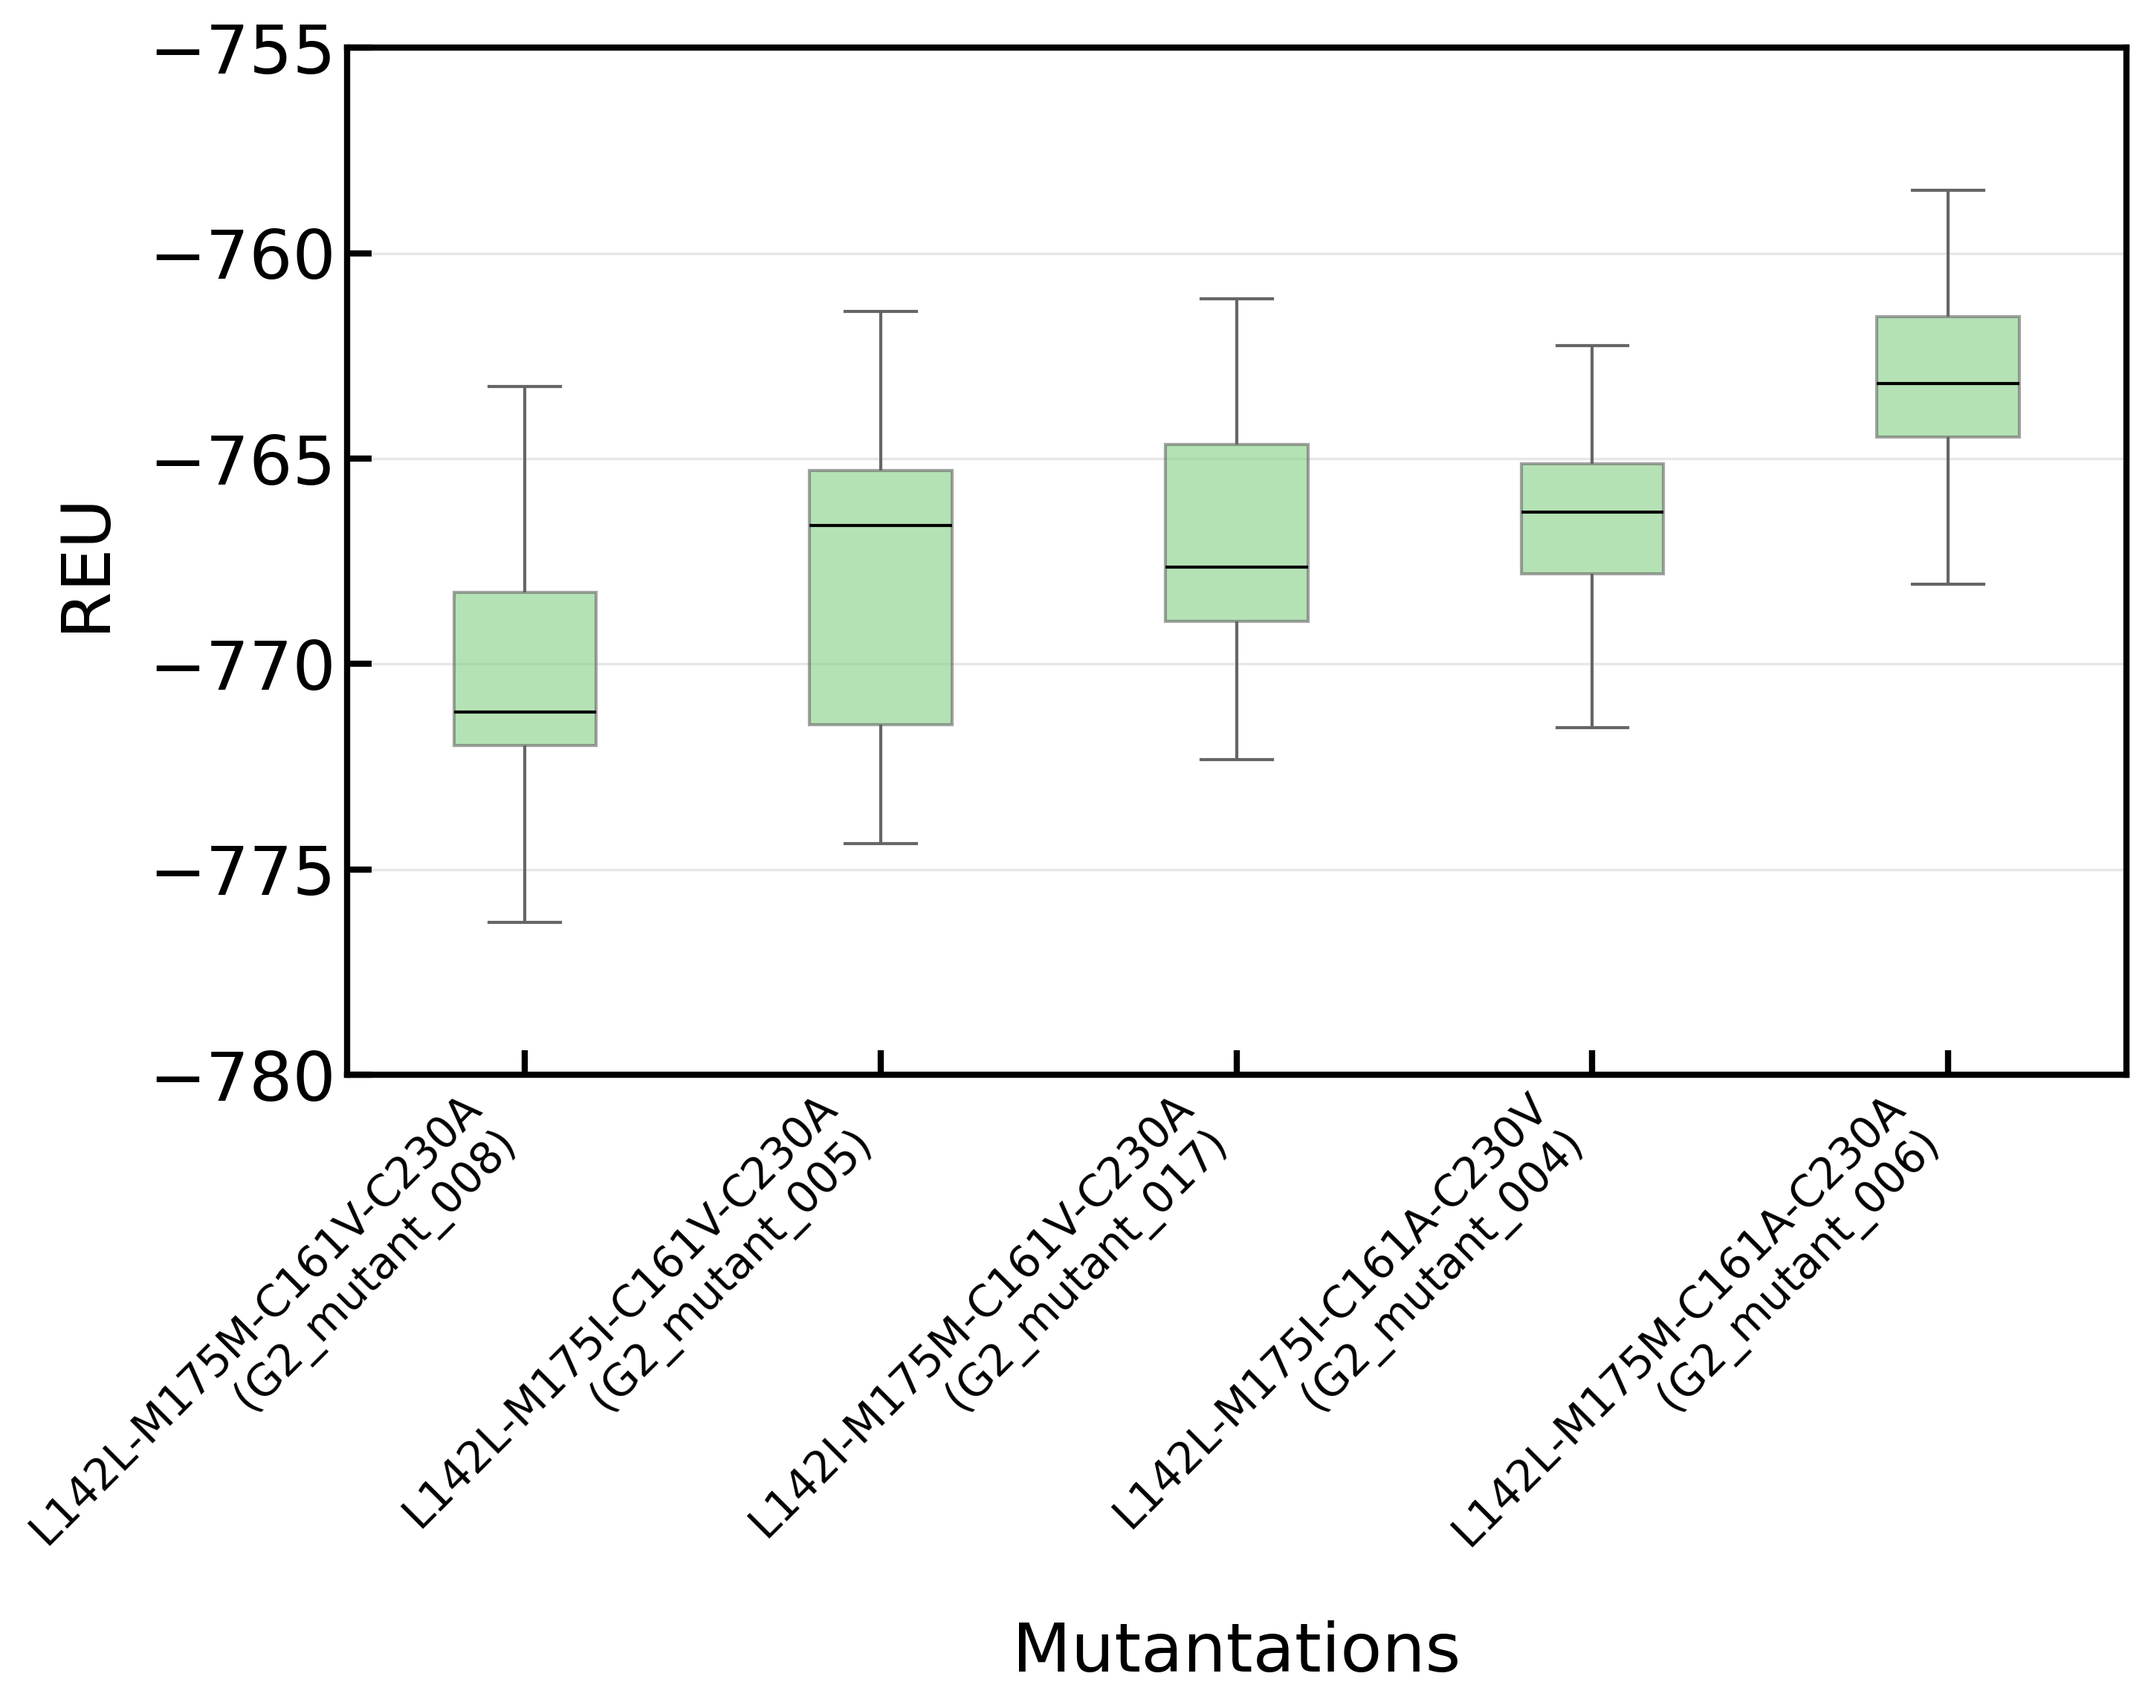
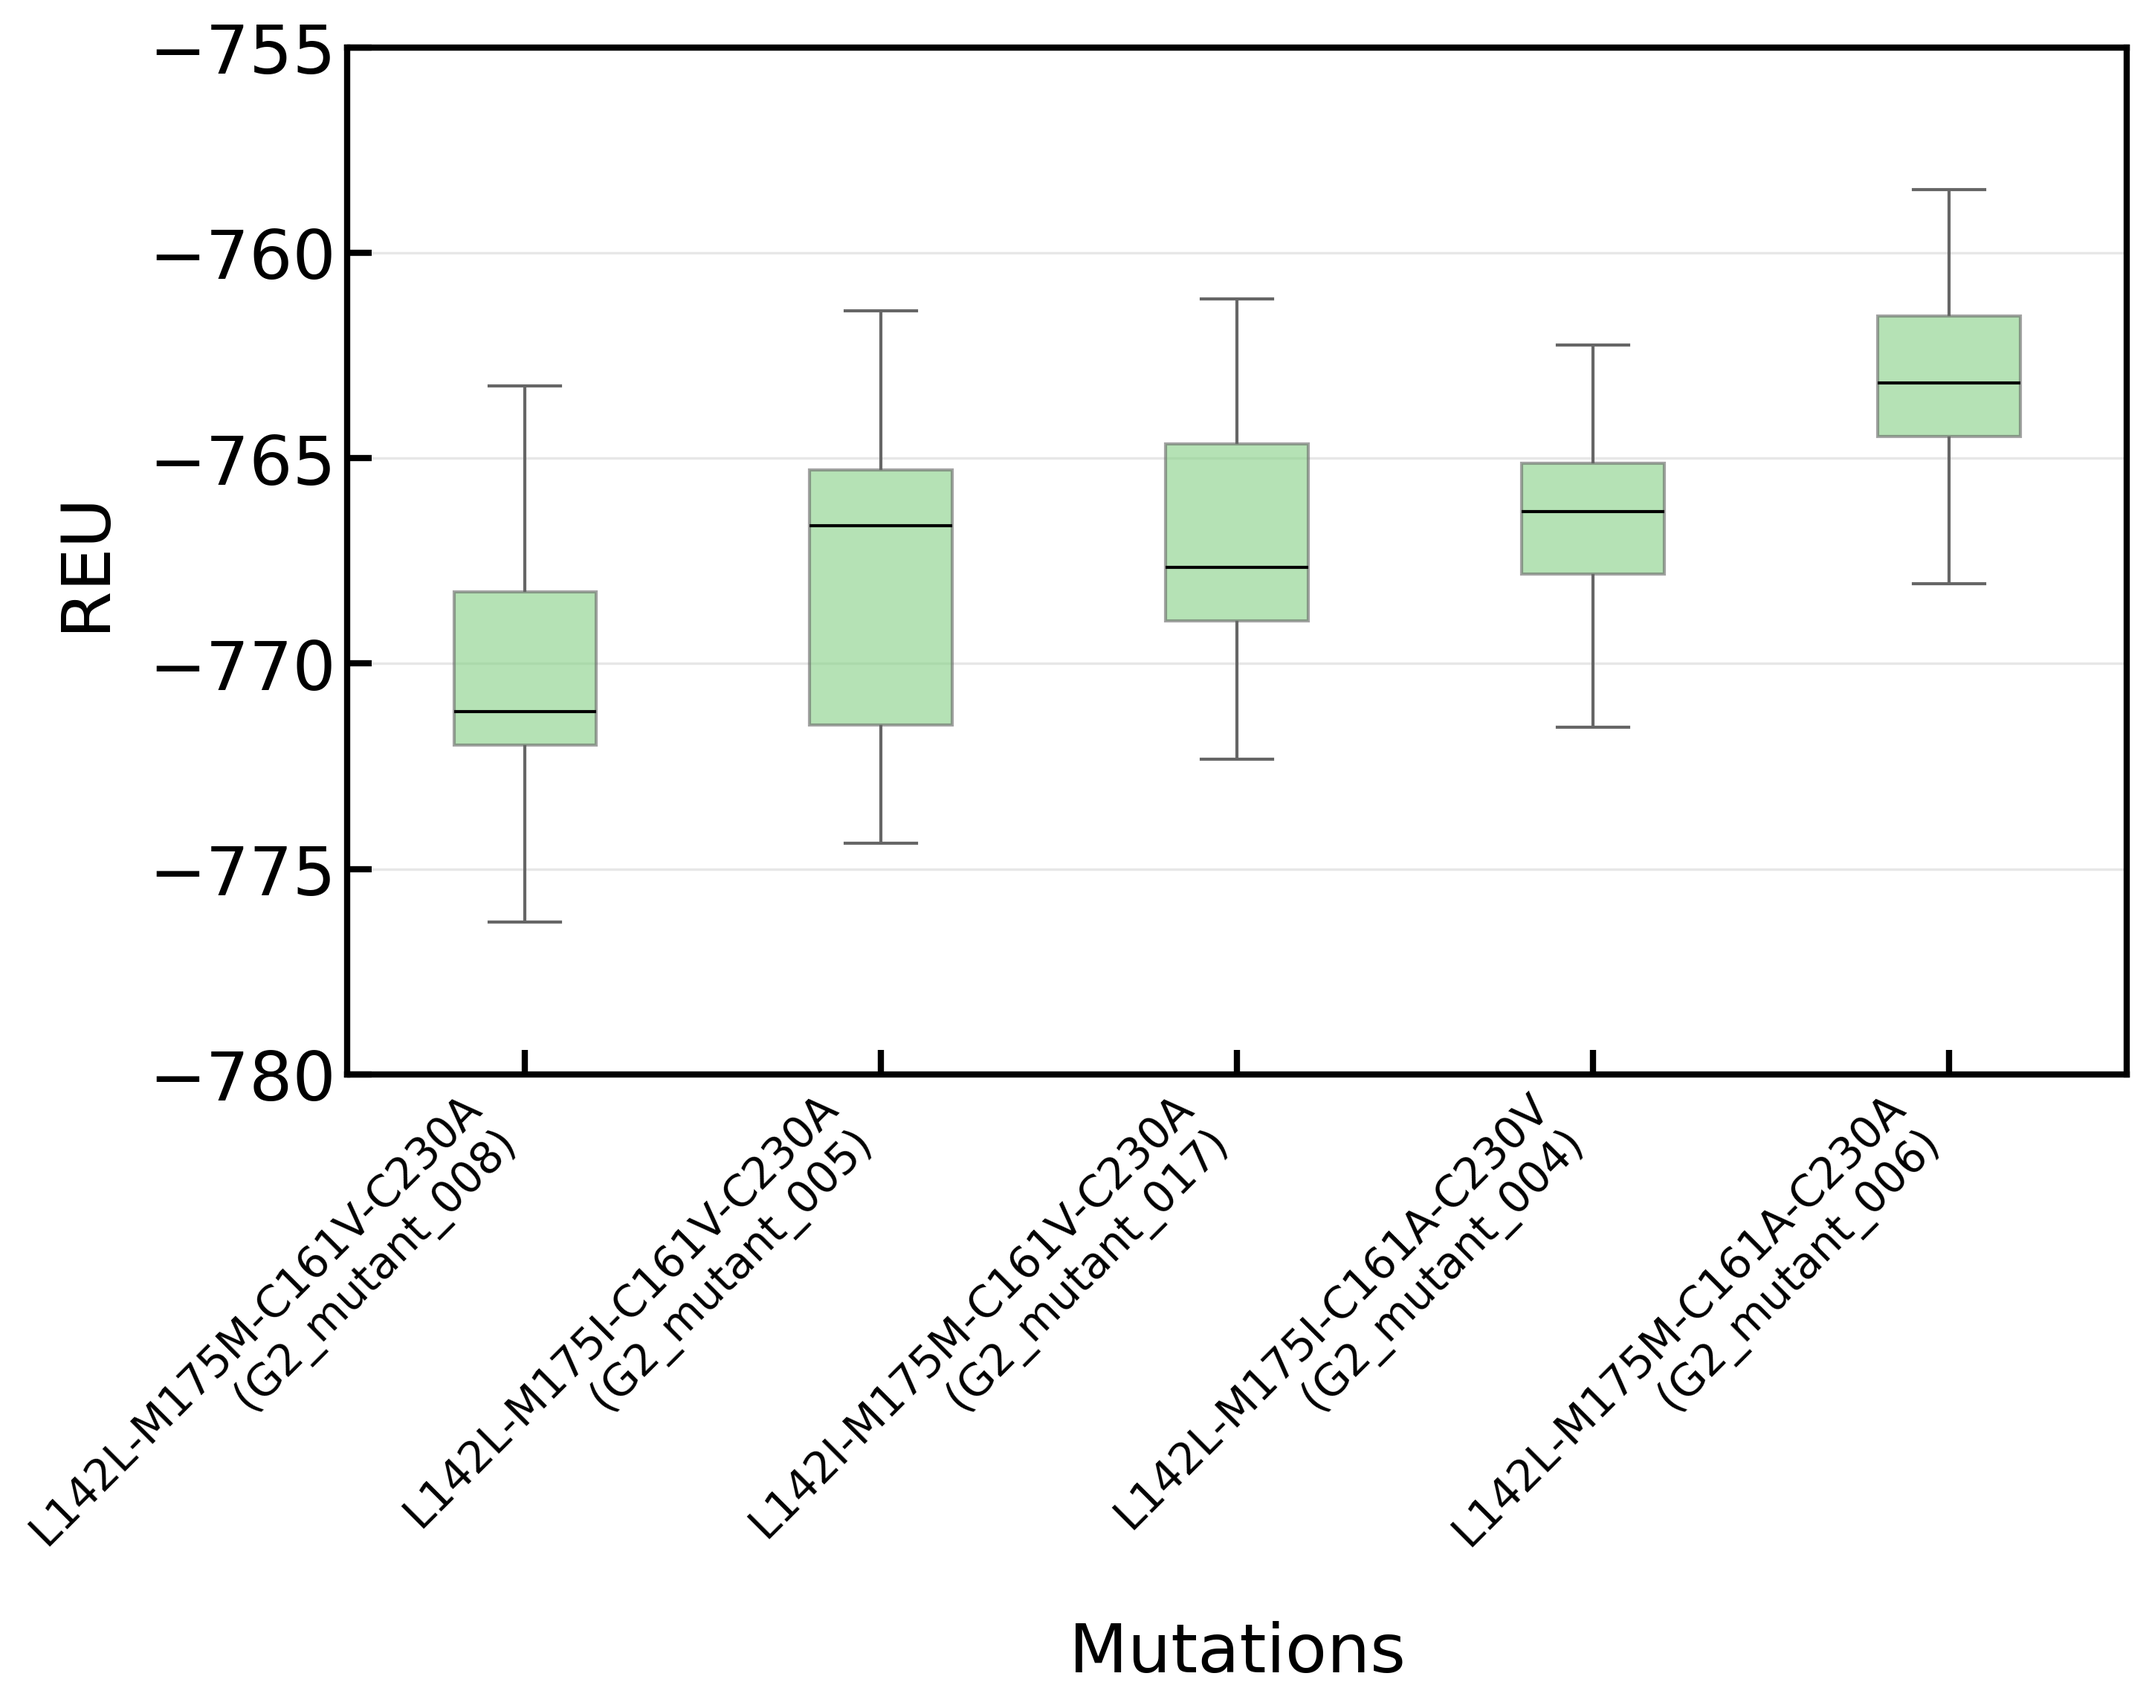
fix: Correct typo in x-axis label for FastRelax results plots and update generated images.

diff --git a/scripts/analysis/plot_fastrelax_results.py b/scripts/analysis/plot_fastrelax_results.py
@@ -213,7 +213,7 @@ def main():
         group_output_svg = os.path.join(OUTPUT_DIR, f"fastrelax_results_{group}_plot.svg")
 
         # plt.title(f'Rosetta FastRelax Results - Group {group} (Sorted by Mean Score)')
-        plt.xlabel('Mutantations')
+        plt.xlabel('Mutations')
         plt.ylabel('REU')
         plt.ylim(-780, -755)
         
